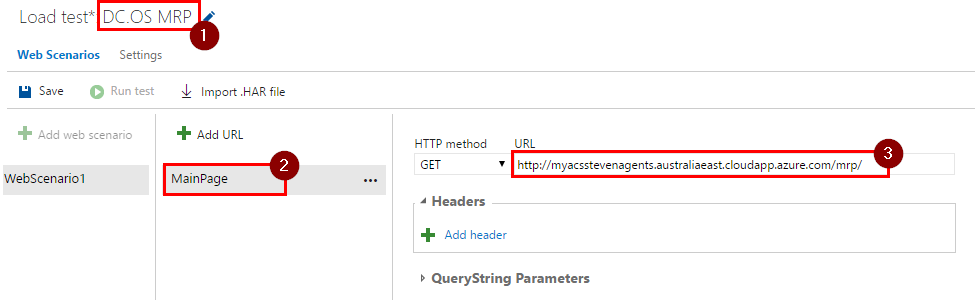
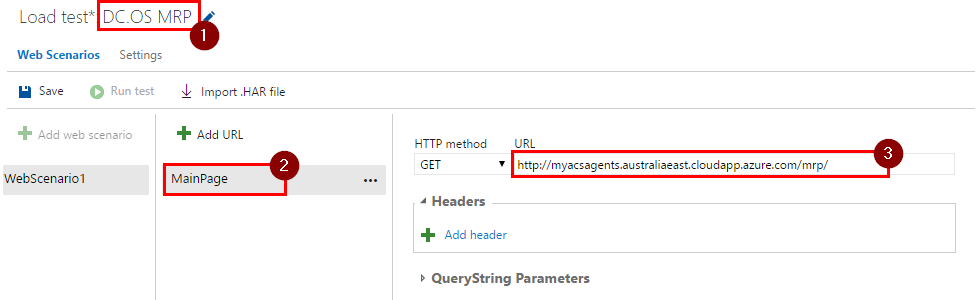
updated readme to address the comments

Changed region(s): [[0.584, 0.54, 0.8914, 0.57]]

diff --git a/docs/HOL_Fault-injection-for-Azure-Container-Services(ACS)/README.md b/docs/HOL_Fault-injection-for-Azure-Container-Services(ACS)/README.md
@@ -4,8 +4,7 @@ HOL - Fault injection for Azure Container Services (ACS)
 
 ## Pre-requisites:
 
-- HOL - Deploying Parts Unlimited MRP on DC/OS
-
+- [Deploying Parts Unlimited MRP on DC/OS](https://microsoft.github.io/PartsUnlimitedMRP/adv/adv-22-DCOS.html)
 - Access to VSTS to run a load test
 
 
@@ -35,12 +34,12 @@ HOL - Fault injection for Azure Container Services (ACS)
 ![](media/2.png)
 
 
-**Step 3.** Give this load test a name, rename URL name into something more meaningful and enter the MRP solution's URL (`{YourDnsName}/mrp`) into the URL field.
+**Step 3.** Give this load test a name, rename URL name into something more meaningful like `MainPage` and enter the MRP solution's URL into the URL field. This URL should be in the following format: `{YourDnsName}/mrp`, e.g. `http://myacsagents.australiaeast.cloudapp.azure.com/mrp/`.
 
 ![](media/3.png)
 
 
-**Step 4.** Click on "Add URL", give this URL a meaningful name and enter `{YourDnsName}/quotes?name` as a URL. This query will call your API, which then queries database.
+**Step 4.** Click on "Add URL", give this URL a meaningful name like `API call to DB` and enter `{YourDnsName}/quotes?name` as a URL. This query will call your API, which then queries database.
 
 ![](media/4.png)
 
@@ -54,6 +53,14 @@ HOL - Fault injection for Azure Container Services (ACS)
 * Load location: Closest location to the datacenter where MRP solution is hosted.
 
 ![](media/5.png)
+> **Note:**
+> 1. `Run duration (minutes)`: specifies the duration of the test in minutes.
+> 2. `Load pattern`: has two options: <br>
+> `Constant`: specifies the same amount of users that are going to be simulated throughout the test.<br>
+> `Step`: specifies a constantly increasing amount of users that are going to be simulated until the maximum desired amount of users is reached.
+> 3. `Warmup duration (seconds)`: specifies time duration to gradually increase the amount of users. This allows web server to cache everything it needs before the load test starts.
+> 4. `Browser mix`: specifies a browser distribution for the users.
+> 5. `Load location`: specifies a datacenter's location from which all of the requests are going to be made.
 
 
 **Step 6.** Click on "Save", then "Run test".
@@ -91,6 +98,8 @@ The new instance will be hosted on a different machine or on the same one with a
 
 ### Task 3: Inject faults into ACS environment using API
 
+In this task you will learn how to inject faults using Marathon's API. This is an alternative way of injecting faults but it achieves exactly the same outcome as the Task 2.
+
 **Step 1.** Open Marathon service again.
 
 
@@ -98,16 +107,17 @@ The new instance will be hosted on a different machine or on the same one with a
 
 ![](media/16.png)
 
+
 **Step 3.** Get applications' IDs by using the `GET /v2/apps` API call.
 
 ![](media/17.png)
 
 1. Clear all query parameters, click "GET", then "Force GET".
-        
+
     ![](media/19.png)
 
 2. Scroll down and find the applications' IDs in the "Body" of the response. You will need these IDs in the next step, so note them.
-  
+
     ```json
     ...
 
